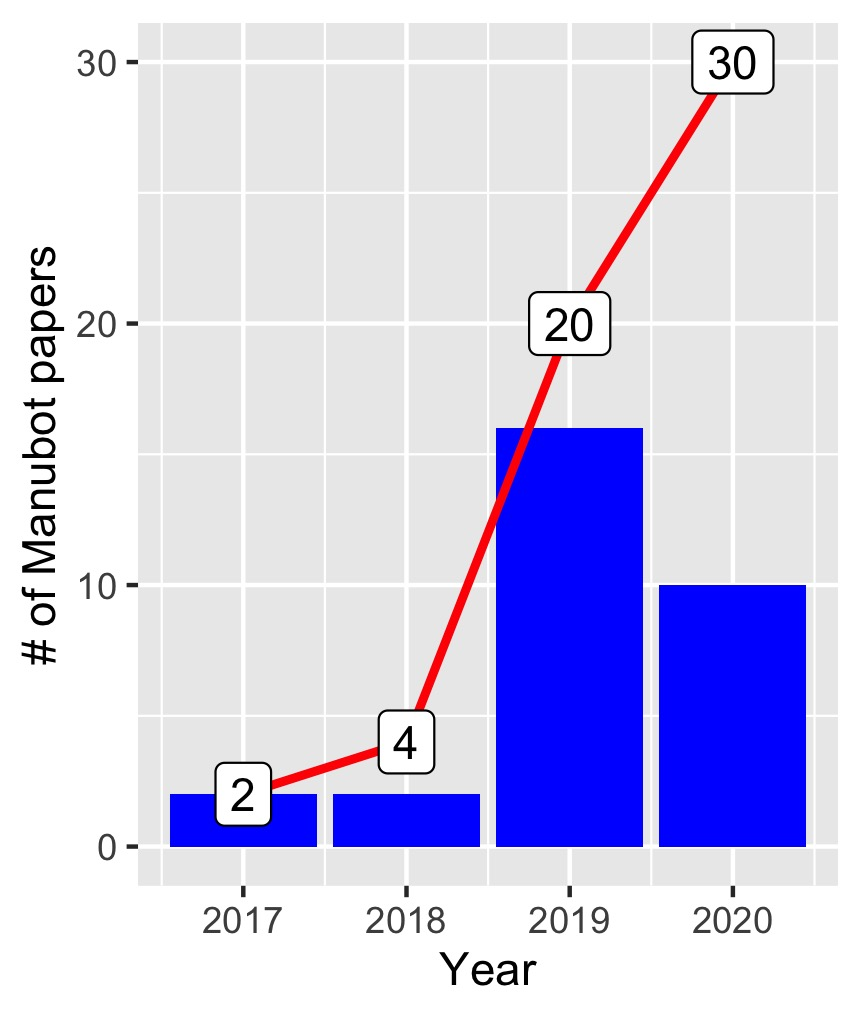
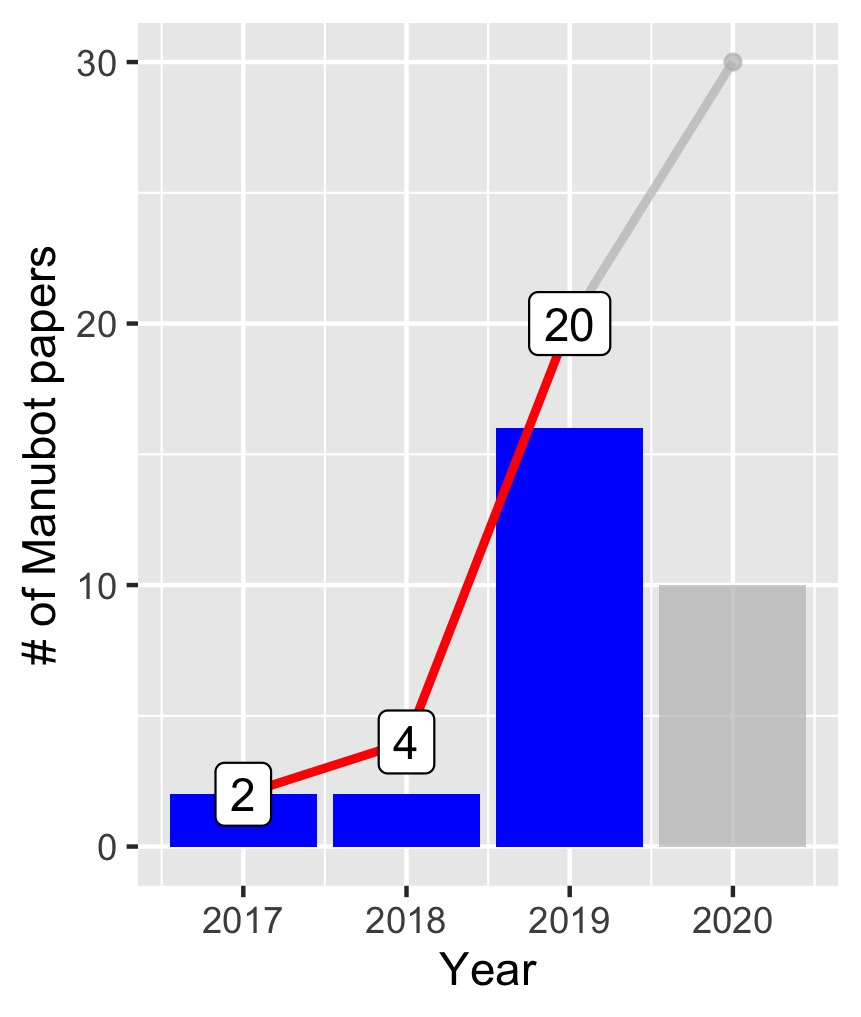
Update figure 1

diff --git a/content/02.introduction.md b/content/02.introduction.md
@@ -2,7 +2,7 @@
 
 [Manubot](https://manubot.org/) is a tool for collaboratively authoring and editing scientific manuscripts. It marries the scientific writing process with the workflow of open-source software development, much of which occurs on GitHub, and at least 30 articles have been published online using the tool (Figure @fig:manubot-fig).
 
-![Number of articles published using Manubot by year (blue), and the cumulative total of articles (red). Source: [https://manubot.org/catalog/](https://manubot.org/catalog/)](images/manubot.jpg){#fig:manubot-fig width="50%"}
+![Number of articles published using Manubot by year (blue), and the cumulative total of articles (red). Data are current as of 13 March 2020. Source: [https://manubot.org/catalog/](https://manubot.org/catalog/)](images/manubot.jpg){#fig:manubot-fig width="50%"}
 
 Authors and collaborators can contribute to a project either by editing the document files on the GitHub web site or by cloning the repository to their own computer and editing the text there. In either case, changes are submitted in the form of a GitHub 'pull request', which allows the project maintainers to review the proposed edits. 
 

diff --git a/content/01.abstract.md b/content/01.abstract.md
@@ -1,3 +1,3 @@
 ## Abstract
 
-To provide a working example for an article on collaborative science writing platforms, we created this demonstration document. This abstract will be updated with publication details once the article goes public. In the meantime, we encourage readers to explore and contribute to this document, as detailed in the [Methods section](https://jperkel.github.io/mymanuscript/#contributing-to-an-existing-manubot-project) below.
+To provide a working example for an article on collaborative science writing platforms, we created this demonstration document. This abstract will be updated with publication details once the article goes public. In the meantime, we encourage readers to explore and [contribute to this document](https://jperkel.github.io/mymanuscript/#contributing-to-an-existing-manubot-project), as detailed in the Methods section below.
